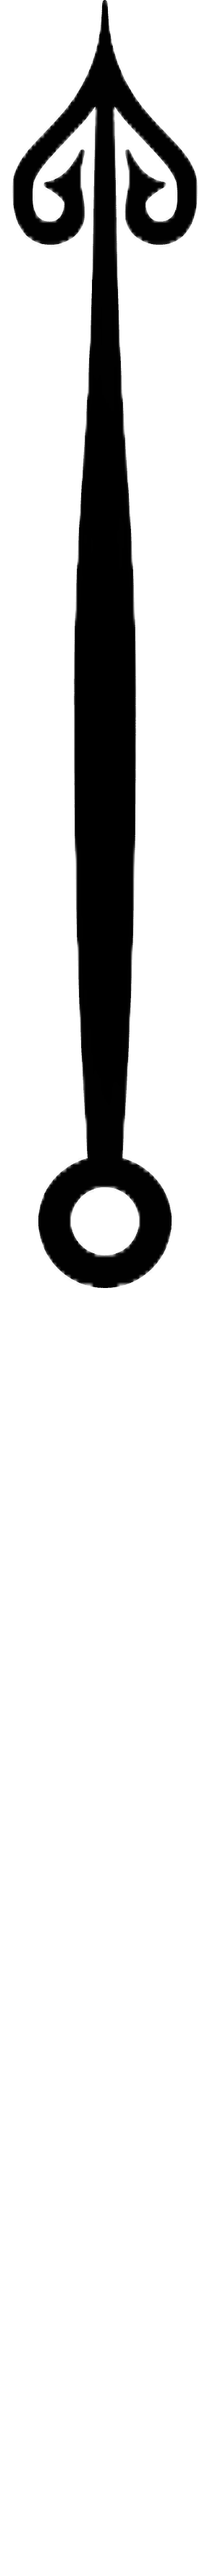
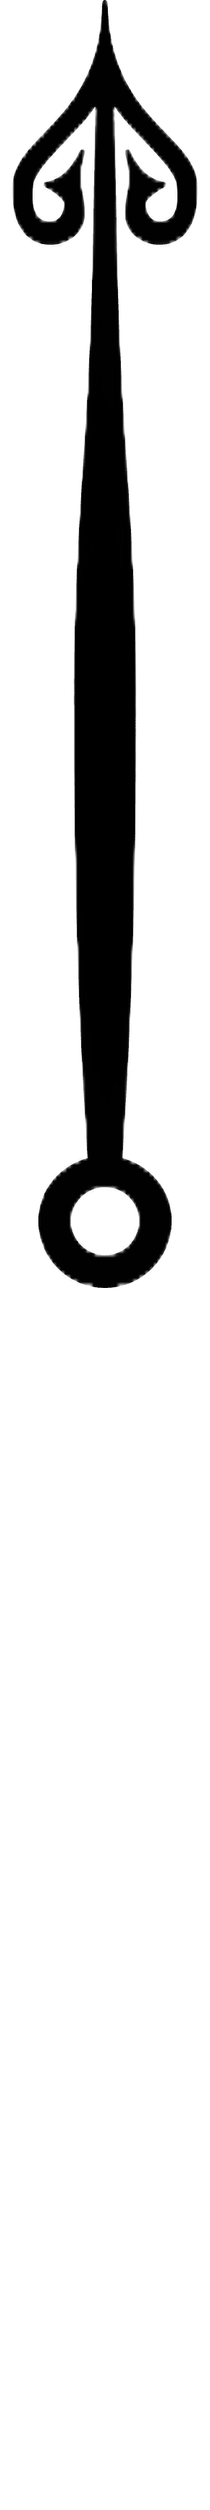
Lab7

diff --git a/Lab7/часы/zadanie1.py b/Lab7/часы/zadanie1.py
@@ -27,7 +27,7 @@ while not done:
     minuta1 = pygame.transform.rotate(minuta, -minYgl)
     secunda1 = pygame.transform.rotate(secunda, -secYgl)
    
-    minutaRect = minuta1.get_rect(center=(395, 375))
+    minutaRect = minuta1.get_rect(center=(394, 384))
     secundaRect = secunda1.get_rect(center=(394, 384))
     screen.blit(pygame.transform.scale(chasi, (768, 768)), (0, 0))
     
@@ -35,4 +35,3 @@ while not done:
     screen.blit(secunda1, secundaRect)
     pygame.draw.circle(screen, black, (392, 386), 20)
     pygame.display.flip()
-
